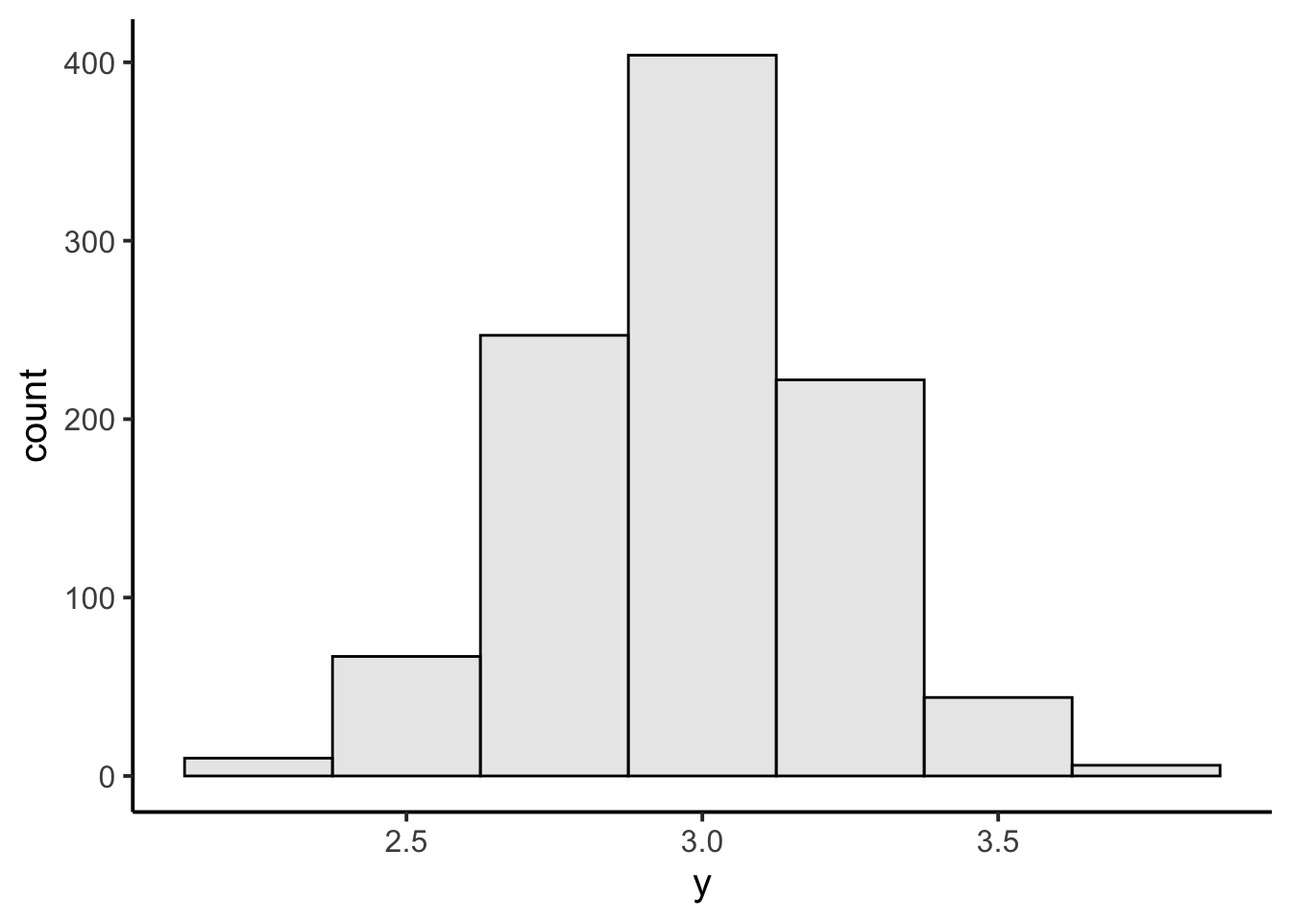
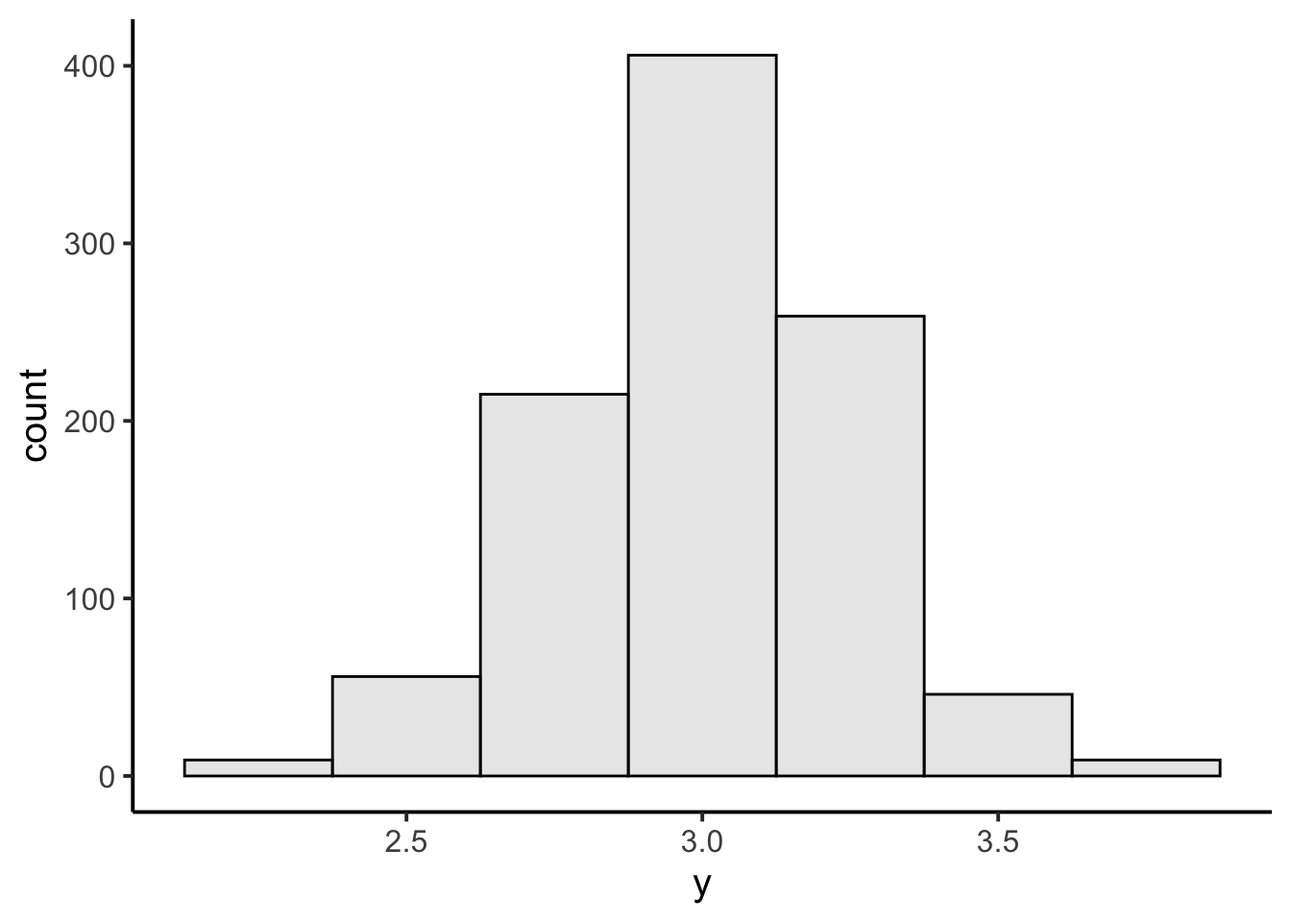
add reading to R basics

diff --git a/docs/labs/lab-01.html b/docs/labs/lab-01.html
@@ -412,46 +412,46 @@ window.onload = function() {
 <section id="google-colab" class="level2" data-number="1">
 <h2 data-number="1" class="anchored" data-anchor-id="google-colab"><span class="header-section-number">1</span> Google Colab</h2>
 <p>True or false? We start a new R notebook in Google Colab with <code>File &gt; New notebook</code></p>
-<div id="radio_CCOFLYMVUK" class="webex-radiogroup">
-<label><input type="radio" autocomplete="off" name="radio_CCOFLYMVUK" value=""> <span>True</span></label><label><input type="radio" autocomplete="off" name="radio_CCOFLYMVUK" value="answer"> <span>False</span></label>
+<div id="radio_DWRAJSUKXM" class="webex-radiogroup">
+<label><input type="radio" autocomplete="off" name="radio_DWRAJSUKXM" value=""> <span>True</span></label><label><input type="radio" autocomplete="off" name="radio_DWRAJSUKXM" value="answer"> <span>False</span></label>
 </div>
 <p>For problem sets, how will you submit your colab notebook for grading?</p>
-<div id="radio_HZDGNMTMFV" class="webex-radiogroup">
-<label><input type="radio" autocomplete="off" name="radio_HZDGNMTMFV" value="answer"> <span><code>File &gt; Download &gt; Download .ipynb</code>, then upload to Gradescope</span></label><label><input type="radio" autocomplete="off" name="radio_HZDGNMTMFV" value=""> <span><code>File &gt; Download &gt; Download .ipynb</code>, then upload to Canvas</span></label><label><input type="radio" autocomplete="off" name="radio_HZDGNMTMFV" value=""> <span><code>File &gt; Download &gt; Download .py</code>, then upload to Gradescope</span></label><label><input type="radio" autocomplete="off" name="radio_HZDGNMTMFV" value=""> <span><code>File &gt; Download &gt; Download .py</code>, then upload to Canvas</span></label>
+<div id="radio_EEQTXTIFSR" class="webex-radiogroup">
+<label><input type="radio" autocomplete="off" name="radio_EEQTXTIFSR" value="answer"> <span><code>File &gt; Download &gt; Download .ipynb</code>, then upload to Gradescope</span></label><label><input type="radio" autocomplete="off" name="radio_EEQTXTIFSR" value=""> <span><code>File &gt; Download &gt; Download .ipynb</code>, then upload to Canvas</span></label><label><input type="radio" autocomplete="off" name="radio_EEQTXTIFSR" value=""> <span><code>File &gt; Download &gt; Download .py</code>, then upload to Gradescope</span></label><label><input type="radio" autocomplete="off" name="radio_EEQTXTIFSR" value=""> <span><code>File &gt; Download &gt; Download .py</code>, then upload to Canvas</span></label>
 </div>
 <p>What version of R is Google Colab running? Hint: use <code>sessionInfo()</code>.</p>
 <p><input class="webex-solveme nospaces" size="20" data-answer="[&quot;4.3.1&quot;]"></p>
 <p>What is the relationship between R and Google Colab?</p>
-<div id="radio_WVJKQYULRA" class="webex-radiogroup">
-<label><input type="radio" autocomplete="off" name="radio_WVJKQYULRA" value=""> <span>R is a programming language. Google Colab is a smaller, specific version of R.</span></label><label><input type="radio" autocomplete="off" name="radio_WVJKQYULRA" value="answer"> <span>R is a programming language. Google Colab is a development environment where you can run R</span></label><label><input type="radio" autocomplete="off" name="radio_WVJKQYULRA" value=""> <span>R and Google Colab are both programming languages.</span></label><label><input type="radio" autocomplete="off" name="radio_WVJKQYULRA" value=""> <span>R is a paid (proprietary) programming language. Google Colab is a free service to run R.</span></label>
+<div id="radio_NEGSLGTULR" class="webex-radiogroup">
+<label><input type="radio" autocomplete="off" name="radio_NEGSLGTULR" value=""> <span>R is a programming language. Google Colab is a smaller, specific version of R.</span></label><label><input type="radio" autocomplete="off" name="radio_NEGSLGTULR" value="answer"> <span>R is a programming language. Google Colab is a development environment where you can run R</span></label><label><input type="radio" autocomplete="off" name="radio_NEGSLGTULR" value=""> <span>R and Google Colab are both programming languages.</span></label><label><input type="radio" autocomplete="off" name="radio_NEGSLGTULR" value=""> <span>R is a paid (proprietary) programming language. Google Colab is a free service to run R.</span></label>
 </div>
 </section>
 <section id="r-basics" class="level2" data-number="2">
 <h2 data-number="2" class="anchored" data-anchor-id="r-basics"><span class="header-section-number">2</span> R Basics</h2>
 <p>Which of the following are expressions?</p>
-<div id="radio_PYEQWYZGDQ" class="webex-radiogroup">
-<label><input type="radio" autocomplete="off" name="radio_PYEQWYZGDQ" value="answer"> <span>10</span></label><label><input type="radio" autocomplete="off" name="radio_PYEQWYZGDQ" value="answer"> <span>5 + 10</span></label><label><input type="radio" autocomplete="off" name="radio_PYEQWYZGDQ" value="answer"> <span>x &lt;- 5 + 10</span></label><label><input type="radio" autocomplete="off" name="radio_PYEQWYZGDQ" value="answer"> <span>x &lt;- y + 10</span></label><label><input type="radio" autocomplete="off" name="radio_PYEQWYZGDQ" value="answer"> <span>mean(x)</span></label>
+<div id="radio_ENFPNAKPKU" class="webex-radiogroup">
+<label><input type="radio" autocomplete="off" name="radio_ENFPNAKPKU" value="answer"> <span>10</span></label><label><input type="radio" autocomplete="off" name="radio_ENFPNAKPKU" value="answer"> <span>5 + 10</span></label><label><input type="radio" autocomplete="off" name="radio_ENFPNAKPKU" value="answer"> <span>x &lt;- 5 + 10</span></label><label><input type="radio" autocomplete="off" name="radio_ENFPNAKPKU" value="answer"> <span>x &lt;- y + 10</span></label><label><input type="radio" autocomplete="off" name="radio_ENFPNAKPKU" value="answer"> <span>mean(x)</span></label>
 </div>
 <p>Which of the following are valid variable names in R?</p>
-<div id="radio_JJJDSMBMIK" class="webex-radiogroup">
-<label><input type="radio" autocomplete="off" name="radio_JJJDSMBMIK" value="answer"> <span>childAge</span></label><label><input type="radio" autocomplete="off" name="radio_JJJDSMBMIK" value="answer"> <span>response_time</span></label><label><input type="radio" autocomplete="off" name="radio_JJJDSMBMIK" value=""> <span>1stPlaceWinner</span></label><label><input type="radio" autocomplete="off" name="radio_JJJDSMBMIK" value=""> <span>2fast2furious</span></label><label><input type="radio" autocomplete="off" name="radio_JJJDSMBMIK" value=""> <span>pi</span></label>
+<div id="radio_YVVPUCSVTO" class="webex-radiogroup">
+<label><input type="radio" autocomplete="off" name="radio_YVVPUCSVTO" value="answer"> <span>childAge</span></label><label><input type="radio" autocomplete="off" name="radio_YVVPUCSVTO" value="answer"> <span>response_time</span></label><label><input type="radio" autocomplete="off" name="radio_YVVPUCSVTO" value=""> <span>1stPlaceWinner</span></label><label><input type="radio" autocomplete="off" name="radio_YVVPUCSVTO" value=""> <span>2fast2furious</span></label><label><input type="radio" autocomplete="off" name="radio_YVVPUCSVTO" value=""> <span>pi</span></label>
 </div>
 <p>Suppose we open a new colab notebook and run the following code block. What will be returned?</p>
 <div class="sourceCode" id="cb1"><pre class="sourceCode r code-with-copy"><code class="sourceCode r"><span id="cb1-1"><a href="#cb1-1" aria-hidden="true" tabindex="-1"></a>x <span class="ot">&lt;-</span> <span class="dv">1</span> <span class="sc">+</span> <span class="dv">2</span></span>
 <span id="cb1-2"><a href="#cb1-2" aria-hidden="true" tabindex="-1"></a>y <span class="ot">&lt;-</span> <span class="dv">0</span> <span class="sc">+</span> <span class="dv">3</span></span>
 <span id="cb1-3"><a href="#cb1-3" aria-hidden="true" tabindex="-1"></a><span class="fu">ls</span>()</span></code><button title="Copy to Clipboard" class="code-copy-button"><i class="bi"></i></button></pre></div>
-<div id="radio_HDROZHPKSQ" class="webex-radiogroup">
-<label><input type="radio" autocomplete="off" name="radio_HDROZHPKSQ" value=""> <span>3</span></label><label><input type="radio" autocomplete="off" name="radio_HDROZHPKSQ" value=""> <span>x=3 • y=3</span></label><label><input type="radio" autocomplete="off" name="radio_HDROZHPKSQ" value="answer"> <span>'x' • 'y' </span></label><label><input type="radio" autocomplete="off" name="radio_HDROZHPKSQ" value=""> <span>mean(c(1,3,5)) • median(c(1,3,5))</span></label>
+<div id="radio_FFUERTYIXO" class="webex-radiogroup">
+<label><input type="radio" autocomplete="off" name="radio_FFUERTYIXO" value=""> <span>3</span></label><label><input type="radio" autocomplete="off" name="radio_FFUERTYIXO" value=""> <span>x=3 • y=3</span></label><label><input type="radio" autocomplete="off" name="radio_FFUERTYIXO" value="answer"> <span>'x' • 'y' </span></label><label><input type="radio" autocomplete="off" name="radio_FFUERTYIXO" value=""> <span>mean(c(1,3,5)) • median(c(1,3,5))</span></label>
 </div>
 <p>Which of the following will load the <code>emo</code> package into the current environment?</p>
-<div id="radio_DWMPJKCUHO" class="webex-radiogroup">
-<label><input type="radio" autocomplete="off" name="radio_DWMPJKCUHO" value=""> <span>install.packages('emo')</span></label><label><input type="radio" autocomplete="off" name="radio_DWMPJKCUHO" value="answer"> <span>library(emo)</span></label><label><input type="radio" autocomplete="off" name="radio_DWMPJKCUHO" value=""> <span>data(emo)</span></label><label><input type="radio" autocomplete="off" name="radio_DWMPJKCUHO" value=""> <span>attributes(emo)</span></label>
+<div id="radio_FTMBBWNQRR" class="webex-radiogroup">
+<label><input type="radio" autocomplete="off" name="radio_FTMBBWNQRR" value=""> <span>install.packages('emo')</span></label><label><input type="radio" autocomplete="off" name="radio_FTMBBWNQRR" value="answer"> <span>library(emo)</span></label><label><input type="radio" autocomplete="off" name="radio_FTMBBWNQRR" value=""> <span>data(emo)</span></label><label><input type="radio" autocomplete="off" name="radio_FTMBBWNQRR" value=""> <span>attributes(emo)</span></label>
 </div>
 <p>Which of the following occur in the code block below?</p>
 <div class="sourceCode" id="cb2"><pre class="sourceCode r code-with-copy"><code class="sourceCode r"><span id="cb2-1"><a href="#cb2-1" aria-hidden="true" tabindex="-1"></a><span class="co"># compute the mean of x and y</span></span>
 <span id="cb2-2"><a href="#cb2-2" aria-hidden="true" tabindex="-1"></a><span class="fu">mean</span>(<span class="fu">c</span>(x,y))</span></code><button title="Copy to Clipboard" class="code-copy-button"><i class="bi"></i></button></pre></div>
-<div id="radio_GCKMZDSJQQ" class="webex-radiogroup">
-<label><input type="radio" autocomplete="off" name="radio_GCKMZDSJQQ" value=""> <span>a message</span></label><label><input type="radio" autocomplete="off" name="radio_GCKMZDSJQQ" value="answer"> <span>a function</span></label><label><input type="radio" autocomplete="off" name="radio_GCKMZDSJQQ" value="answer"> <span>a comment</span></label><label><input type="radio" autocomplete="off" name="radio_GCKMZDSJQQ" value="answer"> <span>an expression</span></label>
+<div id="radio_DLMWOVETRK" class="webex-radiogroup">
+<label><input type="radio" autocomplete="off" name="radio_DLMWOVETRK" value=""> <span>a message</span></label><label><input type="radio" autocomplete="off" name="radio_DLMWOVETRK" value="answer"> <span>a function</span></label><label><input type="radio" autocomplete="off" name="radio_DLMWOVETRK" value="answer"> <span>a comment</span></label><label><input type="radio" autocomplete="off" name="radio_DLMWOVETRK" value="answer"> <span>an expression</span></label>
 </div>
 </section>
 <section id="vectors" class="level2" data-number="3">
@@ -460,8 +460,8 @@ window.onload = function() {
 <div class="sourceCode" id="cb3"><pre class="sourceCode r code-with-copy"><code class="sourceCode r"><span id="cb3-1"><a href="#cb3-1" aria-hidden="true" tabindex="-1"></a><span class="fu">typeof</span>(x)</span></code><button title="Copy to Clipboard" class="code-copy-button"><i class="bi"></i></button></pre></div>
 <p><input class="webex-solveme nospaces" size="20" data-answer="[&quot;character&quot;]"></p>
 <p>What is the previous question an example of?</p>
-<div id="radio_FVUOFNJILY" class="webex-radiogroup">
-<label><input type="radio" autocomplete="off" name="radio_FVUOFNJILY" value=""> <span>attribute addition</span></label><label><input type="radio" autocomplete="off" name="radio_FVUOFNJILY" value=""> <span>explicit coercion</span></label><label><input type="radio" autocomplete="off" name="radio_FVUOFNJILY" value="answer"> <span>implicit coercion</span></label><label><input type="radio" autocomplete="off" name="radio_FVUOFNJILY" value=""> <span>none of the above</span></label>
+<div id="radio_BQQYBYAGMR" class="webex-radiogroup">
+<label><input type="radio" autocomplete="off" name="radio_BQQYBYAGMR" value=""> <span>attribute addition</span></label><label><input type="radio" autocomplete="off" name="radio_BQQYBYAGMR" value=""> <span>explicit coercion</span></label><label><input type="radio" autocomplete="off" name="radio_BQQYBYAGMR" value="answer"> <span>implicit coercion</span></label><label><input type="radio" autocomplete="off" name="radio_BQQYBYAGMR" value=""> <span>none of the above</span></label>
 </div>
 <p>What will the following code block return?</p>
 <div class="sourceCode" id="cb4"><pre class="sourceCode r code-with-copy"><code class="sourceCode r"><span id="cb4-1"><a href="#cb4-1" aria-hidden="true" tabindex="-1"></a>x <span class="ot">&lt;-</span> <span class="dv">1</span><span class="sc">:</span><span class="dv">4</span></span>
@@ -478,35 +478,35 @@ window.onload = function() {
 <pre><code> num [1:4] 1 0 1 0</code></pre>
 </div>
 </div>
-<div id="radio_FALZWMACLC" class="webex-radiogroup">
-<label><input type="radio" autocomplete="off" name="radio_FALZWMACLC" value=""> <span>an error</span></label><label><input type="radio" autocomplete="off" name="radio_FALZWMACLC" value="answer"> <span>TRUE • FALSE • TRUE • FALSE</span></label><label><input type="radio" autocomplete="off" name="radio_FALZWMACLC" value=""> <span>FALSE</span></label><label><input type="radio" autocomplete="off" name="radio_FALZWMACLC" value=""> <span>FALSE • TRUE • FALSE • TRUE</span></label>
+<div id="radio_ZUYQNCMRLF" class="webex-radiogroup">
+<label><input type="radio" autocomplete="off" name="radio_ZUYQNCMRLF" value=""> <span>an error</span></label><label><input type="radio" autocomplete="off" name="radio_ZUYQNCMRLF" value="answer"> <span>TRUE • FALSE • TRUE • FALSE</span></label><label><input type="radio" autocomplete="off" name="radio_ZUYQNCMRLF" value=""> <span>FALSE</span></label><label><input type="radio" autocomplete="off" name="radio_ZUYQNCMRLF" value=""> <span>FALSE • TRUE • FALSE • TRUE</span></label>
 </div>
 <p>Given the following vector, what will <code>as.double(x)</code> return?</p>
 <div class="sourceCode" id="cb7"><pre class="sourceCode r code-with-copy"><code class="sourceCode r"><span id="cb7-1"><a href="#cb7-1" aria-hidden="true" tabindex="-1"></a>x <span class="ot">&lt;-</span> <span class="fu">c</span>(<span class="st">"one"</span>, <span class="st">"two"</span>, <span class="st">"three"</span>)</span></code><button title="Copy to Clipboard" class="code-copy-button"><i class="bi"></i></button></pre></div>
-<div id="radio_HMVOHKIYDM" class="webex-radiogroup">
-<label><input type="radio" autocomplete="off" name="radio_HMVOHKIYDM" value="answer"> <span>an error</span></label><label><input type="radio" autocomplete="off" name="radio_HMVOHKIYDM" value=""> <span>1 • 2 • 3</span></label><label><input type="radio" autocomplete="off" name="radio_HMVOHKIYDM" value=""> <span>2 • 4 • 6</span></label><label><input type="radio" autocomplete="off" name="radio_HMVOHKIYDM" value=""> <span>'one' • 'two' • 'three'</span></label>
+<div id="radio_LTMZVAEGAI" class="webex-radiogroup">
+<label><input type="radio" autocomplete="off" name="radio_LTMZVAEGAI" value="answer"> <span>an error</span></label><label><input type="radio" autocomplete="off" name="radio_LTMZVAEGAI" value=""> <span>1 • 2 • 3</span></label><label><input type="radio" autocomplete="off" name="radio_LTMZVAEGAI" value=""> <span>2 • 4 • 6</span></label><label><input type="radio" autocomplete="off" name="radio_LTMZVAEGAI" value=""> <span>'one' • 'two' • 'three'</span></label>
 </div>
 <p>What happens if you add a vector of numbers to a single number in the following expression?</p>
 <div class="sourceCode" id="cb8"><pre class="sourceCode r code-with-copy"><code class="sourceCode r"><span id="cb8-1"><a href="#cb8-1" aria-hidden="true" tabindex="-1"></a><span class="fu">c</span>(<span class="dv">1</span>, <span class="dv">3</span>, <span class="dv">5</span>) <span class="sc">+</span> <span class="dv">1</span></span></code><button title="Copy to Clipboard" class="code-copy-button"><i class="bi"></i></button></pre></div>
-<div id="radio_SZJXPWSAFR" class="webex-radiogroup">
-<label><input type="radio" autocomplete="off" name="radio_SZJXPWSAFR" value=""> <span>2 • 3 • 5</span></label><label><input type="radio" autocomplete="off" name="radio_SZJXPWSAFR" value=""> <span>Error: length mismatch</span></label><label><input type="radio" autocomplete="off" name="radio_SZJXPWSAFR" value=""> <span>1 • 3 • 5 • 1</span></label><label><input type="radio" autocomplete="off" name="radio_SZJXPWSAFR" value="answer"> <span>2 • 4 • 6</span></label>
+<div id="radio_DMVKUDYITY" class="webex-radiogroup">
+<label><input type="radio" autocomplete="off" name="radio_DMVKUDYITY" value=""> <span>2 • 3 • 5</span></label><label><input type="radio" autocomplete="off" name="radio_DMVKUDYITY" value=""> <span>Error: length mismatch</span></label><label><input type="radio" autocomplete="off" name="radio_DMVKUDYITY" value=""> <span>1 • 3 • 5 • 1</span></label><label><input type="radio" autocomplete="off" name="radio_DMVKUDYITY" value="answer"> <span>2 • 4 • 6</span></label>
 </div>
 <p>What happens if you multiply a vector times another vector?</p>
 <div class="sourceCode" id="cb9"><pre class="sourceCode r code-with-copy"><code class="sourceCode r"><span id="cb9-1"><a href="#cb9-1" aria-hidden="true" tabindex="-1"></a><span class="fu">c</span>(<span class="dv">1</span>, <span class="dv">3</span>, <span class="dv">5</span>) <span class="sc">*</span> <span class="fu">c</span>(<span class="dv">10</span>, <span class="dv">100</span>, <span class="dv">1000</span>)</span></code><button title="Copy to Clipboard" class="code-copy-button"><i class="bi"></i></button></pre></div>
-<div id="radio_KIYVVQQXXZ" class="webex-radiogroup">
-<label><input type="radio" autocomplete="off" name="radio_KIYVVQQXXZ" value="answer"> <span>10 • 300 • 5000</span></label><label><input type="radio" autocomplete="off" name="radio_KIYVVQQXXZ" value=""> <span>Error: length mismatch</span></label><label><input type="radio" autocomplete="off" name="radio_KIYVVQQXXZ" value=""> <span>10 • 30 • 50 • 100 • 300 • 500 • 1000 • 3000 • 5000</span></label><label><input type="radio" autocomplete="off" name="radio_KIYVVQQXXZ" value=""> <span>a 2 x 3 matrix</span></label><label><input type="radio" autocomplete="off" name="radio_KIYVVQQXXZ" value=""> <span>Error: cannot multiply vectors</span></label>
+<div id="radio_NHQKPHHYMT" class="webex-radiogroup">
+<label><input type="radio" autocomplete="off" name="radio_NHQKPHHYMT" value="answer"> <span>10 • 300 • 5000</span></label><label><input type="radio" autocomplete="off" name="radio_NHQKPHHYMT" value=""> <span>Error: length mismatch</span></label><label><input type="radio" autocomplete="off" name="radio_NHQKPHHYMT" value=""> <span>10 • 30 • 50 • 100 • 300 • 500 • 1000 • 3000 • 5000</span></label><label><input type="radio" autocomplete="off" name="radio_NHQKPHHYMT" value=""> <span>a 2 x 3 matrix</span></label><label><input type="radio" autocomplete="off" name="radio_NHQKPHHYMT" value=""> <span>Error: cannot multiply vectors</span></label>
 </div>
 <p>Suppose we run the following code. What will <code>any(x)</code> return?</p>
 <div class="sourceCode" id="cb10"><pre class="sourceCode r code-with-copy"><code class="sourceCode r"><span id="cb10-1"><a href="#cb10-1" aria-hidden="true" tabindex="-1"></a>x <span class="ot">&lt;-</span> <span class="fu">c</span>(<span class="dv">1</span>, <span class="dv">5</span>, <span class="dv">11</span>) <span class="sc">&gt;</span> <span class="dv">10</span></span></code><button title="Copy to Clipboard" class="code-copy-button"><i class="bi"></i></button></pre></div>
-<div id="radio_STTTNZWWON" class="webex-radiogroup">
-<label><input type="radio" autocomplete="off" name="radio_STTTNZWWON" value="answer"> <span>TRUE</span></label><label><input type="radio" autocomplete="off" name="radio_STTTNZWWON" value=""> <span>FALSE</span></label><label><input type="radio" autocomplete="off" name="radio_STTTNZWWON" value=""> <span>Error: vector is double but requires logical</span></label>
+<div id="radio_PRFEAJBPCE" class="webex-radiogroup">
+<label><input type="radio" autocomplete="off" name="radio_PRFEAJBPCE" value="answer"> <span>TRUE</span></label><label><input type="radio" autocomplete="off" name="radio_PRFEAJBPCE" value=""> <span>FALSE</span></label><label><input type="radio" autocomplete="off" name="radio_PRFEAJBPCE" value=""> <span>Error: vector is double but requires logical</span></label>
 </div>
 </section>
 <section id="subsetting" class="level2" data-number="4">
 <h2 data-number="4" class="anchored" data-anchor-id="subsetting"><span class="header-section-number">4</span> Subsetting</h2>
 <p>Which of the following code subsets the vector <code>x &lt;- c("blue", "pink", "red")</code> to return just the first element?</p>
-<div id="radio_DSBXKWEYCR" class="webex-radiogroup">
-<label><input type="radio" autocomplete="off" name="radio_DSBXKWEYCR" value="answer"> <span>x[1]</span></label><label><input type="radio" autocomplete="off" name="radio_DSBXKWEYCR" value="answer"> <span>x[[1]]</span></label><label><input type="radio" autocomplete="off" name="radio_DSBXKWEYCR" value=""> <span>x[0]</span></label><label><input type="radio" autocomplete="off" name="radio_DSBXKWEYCR" value="answer"> <span>x[-c(2, 3)]</span></label><label><input type="radio" autocomplete="off" name="radio_DSBXKWEYCR" value=""> <span>x[“blue”]</span></label>
+<div id="radio_WRSMZNALND" class="webex-radiogroup">
+<label><input type="radio" autocomplete="off" name="radio_WRSMZNALND" value="answer"> <span>x[1]</span></label><label><input type="radio" autocomplete="off" name="radio_WRSMZNALND" value="answer"> <span>x[[1]]</span></label><label><input type="radio" autocomplete="off" name="radio_WRSMZNALND" value=""> <span>x[0]</span></label><label><input type="radio" autocomplete="off" name="radio_WRSMZNALND" value="answer"> <span>x[-c(2, 3)]</span></label><label><input type="radio" autocomplete="off" name="radio_WRSMZNALND" value=""> <span>x[“blue”]</span></label>
 </div>
 <p>Suppose we run the following code. What will <code>x[[2]]</code> return?</p>
 <div class="sourceCode" id="cb11"><pre class="sourceCode r code-with-copy"><code class="sourceCode r"><span id="cb11-1"><a href="#cb11-1" aria-hidden="true" tabindex="-1"></a>x <span class="ot">&lt;-</span> <span class="fu">seq</span>(<span class="at">from =</span> <span class="dv">2</span>, <span class="at">to =</span><span class="dv">8</span>, <span class="at">by=</span><span class="dv">2</span>)</span></code><button title="Copy to Clipboard" class="code-copy-button"><i class="bi"></i></button></pre></div>

diff --git a/docs/webexercises.html b/docs/webexercises.html
@@ -438,12 +438,12 @@ window.onload = function() {
 <h3 class="anchored" data-anchor-id="longer-mcqs-longmcq">Longer MCQs (<code>longmcq()</code>)</h3>
 <p>When your answers are very long, sometimes a drop-down select box gets formatted oddly. You can use <code>longmcq()</code> to deal with this. Since the answers are long, It’s probably best to set up the options inside an R chunk with <code>echo=FALSE</code>.</p>
 <p><strong>What is a p-value?</strong></p>
-<div id="radio_PIJKULPUEJ" class="webex-radiogroup">
-<label><input type="radio" autocomplete="off" name="radio_PIJKULPUEJ" value=""> <span>the probability that the null hypothesis is true</span></label><label><input type="radio" autocomplete="off" name="radio_PIJKULPUEJ" value="answer"> <span>the probability of the observed, or more extreme, data, under the assumption that the null-hypothesis is true</span></label><label><input type="radio" autocomplete="off" name="radio_PIJKULPUEJ" value=""> <span>the probability of making an error in your conclusion</span></label>
+<div id="radio_KSEQICNOXJ" class="webex-radiogroup">
+<label><input type="radio" autocomplete="off" name="radio_KSEQICNOXJ" value=""> <span>the probability that the null hypothesis is true</span></label><label><input type="radio" autocomplete="off" name="radio_KSEQICNOXJ" value="answer"> <span>the probability of the observed, or more extreme, data, under the assumption that the null-hypothesis is true</span></label><label><input type="radio" autocomplete="off" name="radio_KSEQICNOXJ" value=""> <span>the probability of making an error in your conclusion</span></label>
 </div>
 <p><strong>What is true about a 95% confidence interval of the mean?</strong></p>
-<div id="radio_AKAMDSVPNM" class="webex-radiogroup">
-<label><input type="radio" autocomplete="off" name="radio_AKAMDSVPNM" value=""> <span>there is a 95% probability that the true mean lies within this range</span></label><label><input type="radio" autocomplete="off" name="radio_AKAMDSVPNM" value="answer"> <span>if you repeated the process many times, 95% of intervals calculated in this way contain the true mean</span></label><label><input type="radio" autocomplete="off" name="radio_AKAMDSVPNM" value=""> <span>95% of the data fall within this range</span></label>
+<div id="radio_FEWBXWODAU" class="webex-radiogroup">
+<label><input type="radio" autocomplete="off" name="radio_FEWBXWODAU" value=""> <span>95% of the data fall within this range</span></label><label><input type="radio" autocomplete="off" name="radio_FEWBXWODAU" value="answer"> <span>if you repeated the process many times, 95% of intervals calculated in this way contain the true mean</span></label><label><input type="radio" autocomplete="off" name="radio_FEWBXWODAU" value=""> <span>there is a 95% probability that the true mean lies within this range</span></label>
 </div>
 </section>
 </section>
@@ -453,8 +453,8 @@ window.onload = function() {
 <div class="webex-check webex-box">
 <p>I am going to learn a lot: <select class="webex-select"><option value="blank"></option><option value="answer">TRUE</option><option value="">FALSE</option></select></p>
 What is a p-value?
-<div id="radio_AXEABZMPOR" class="webex-radiogroup">
-<label><input type="radio" autocomplete="off" name="radio_AXEABZMPOR" value=""> <span>the probability that the null hypothesis is true</span></label><label><input type="radio" autocomplete="off" name="radio_AXEABZMPOR" value="answer"> <span>the probability of the observed, or more extreme, data, under the assumption that the null-hypothesis is true</span></label><label><input type="radio" autocomplete="off" name="radio_AXEABZMPOR" value=""> <span>the probability of making an error in your conclusion</span></label>
+<div id="radio_QSHCCQSTBF" class="webex-radiogroup">
+<label><input type="radio" autocomplete="off" name="radio_QSHCCQSTBF" value=""> <span>the probability that the null hypothesis is true</span></label><label><input type="radio" autocomplete="off" name="radio_QSHCCQSTBF" value="answer"> <span>the probability of the observed, or more extreme, data, under the assumption that the null-hypothesis is true</span></label><label><input type="radio" autocomplete="off" name="radio_QSHCCQSTBF" value=""> <span>the probability of making an error in your conclusion</span></label>
 </div>
 </div>
 </section>

diff --git a/docs/psets/problem-set-01.html b/docs/psets/problem-set-01.html
@@ -486,7 +486,7 @@ Upload your <code>.ipynb</code> notebook to gradescope by 11:59pm on the due dat
 <h2 class="anchored" data-anchor-id="problem-5">Problem 5</h2>
 <p>Suppose you extend your experiment: you decide to record the number of words your quiet roommate says to you every day for the entire semester. Import the file below from the given url, ensuring that <code>week</code> is an integer vector, <code>words spoken</code> is a double, and all column names are valid variable names in R. Take care to use the approaches we discussed in lecture to identify and handle any issues. Use <code>glimpse</code> to show the resulting tibble. Finally, use these data to recreate (as faithfully as possible) the figure below.</p>
 <div class="sourceCode" id="cb5"><pre class="sourceCode r code-with-copy"><code class="sourceCode r"><span id="cb5-1"><a href="#cb5-1" aria-hidden="true" tabindex="-1"></a><span class="st">"https://kathrynschuler.com/datasets/quiet_roommate.csv"</span></span></code><button title="Copy to Clipboard" class="code-copy-button"><i class="bi"></i></button></pre></div>
-<div id="target-5" class="quarto-figure quarto-figure-left anchored">
+<div id="target-5" class="quarto-figure quarto-figure-center anchored">
 <figure class="figure">
 <p><img src="../include/targets/pset-1-target-5.png" class="img-fluid figure-img" style="width:50.0%"></p>
 </figure>
@@ -499,7 +499,7 @@ Upload your <code>.ipynb</code> notebook to gradescope by 11:59pm on the due dat
 <p>This data set gives mean visual lexical decision latencies and word naming latencies to 2284 monomorphemic English nouns and verbs, averaged for old and young subjects, with various predictor variables.</p>
 </blockquote>
 <p>Install and load the <code>languageR</code> library. Convert the <code>english</code> dataset to a tibble, then use <code>glimpse</code> to show the result. Finally, use the <code>RTlexdec</code>, <code>Familiarity</code>, and <code>AgeSubjects</code> columns to recreate (as faithfully as possible) the figure below.</p>
-<div id="target-6" class="quarto-figure quarto-figure-left anchored">
+<div id="target-6" class="quarto-figure quarto-figure-center anchored">
 <figure class="figure">
 <p><img src="../include/targets/pset-1-target-6.png" class="img-fluid figure-img" style="width:60.0%"></p>
 </figure>

diff --git a/docs/drafts.html b/docs/drafts.html
@@ -468,7 +468,7 @@ Author
 <span class="listing-author">Katie Schuler</span>
 </td>
 </tr>
-<tr data-index="1" data-listing-date-sort="1693454400000" data-listing-file-modified-sort="1693731635744" data-listing-date-modified-sort="NaN" data-listing-reading-time-sort="12" data-listing-title-sort="R basics" data-listing-filename-sort="r-basics.qmd">
+<tr data-index="1" data-listing-date-sort="1693454400000" data-listing-file-modified-sort="1693995320358" data-listing-date-modified-sort="NaN" data-listing-reading-time-sort="12" data-listing-title-sort="R basics" data-listing-filename-sort="r-basics.qmd">
 <td>
 <span class="listing-date">Aug 31, 2023</span>
 </td>
@@ -706,7 +706,7 @@ Author
 </tr>
 </thead>
 <tbody class="list">
-<tr data-index="0" data-listing-file-modified-sort="1693738750462" data-listing-reading-time-sort="4" data-listing-title-sort="Problem set 1" data-listing-filename-sort="problem-set-01.qmd">
+<tr data-index="0" data-listing-file-modified-sort="1693994582663" data-listing-reading-time-sort="4" data-listing-title-sort="Problem set 1" data-listing-filename-sort="problem-set-01.qmd">
 <td>
 <a href="./psets/problem-set-01.html" class="title listing-title">Problem set 1</a>
 </td>

diff --git a/docs/notes/r-basics.html b/docs/notes/r-basics.html
@@ -757,8 +757,9 @@ window.onload = function() {
 <h2 data-number="9" class="anchored" data-anchor-id="further-reading-and-references"><span class="header-section-number">9</span> Further reading and references</h2>
 <p>Suggested further reading:</p>
 <ul>
-<li><a href="https://iqss.github.io/dss-workshops/R/Rintro/base-r-cheat-sheet.pdf">Base R Cheat Sheet</a></li>
+<li><a href="https://moderndive.com/1-getting-started.html#code">Getting started with Data in R</a> from Modern Dive textbook</li>
 <li><a href="https://bookdown.org/rdpeng/rprogdatascience/r-nuts-and-bolts.html">R Nuts and Bolts</a> in R Programming for Data Science by Roger Peng</li>
+<li><a href="https://iqss.github.io/dss-workshops/R/Rintro/base-r-cheat-sheet.pdf">Base R Cheat Sheet</a></li>
 </ul>
 <p>Other references:</p>
 <ul>

diff --git a/docs/notes/probability-distributions.html b/docs/notes/probability-distributions.html
@@ -474,7 +474,7 @@ Under Construction
 <pre><code># A tibble: 1 × 6
       n  mean median    sd iqr_lower iqr_upper
   &lt;int&gt; &lt;dbl&gt;  &lt;dbl&gt; &lt;dbl&gt;     &lt;dbl&gt;     &lt;dbl&gt;
-1  1000  2.98   2.98 0.246      2.82      3.13</code></pre>
+1  1000  3.01   3.01 0.247      2.85      3.18</code></pre>
 </div>
 </div>
 </section>
